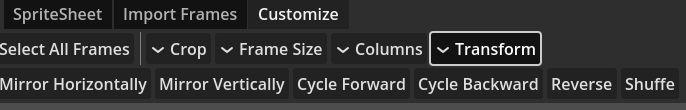
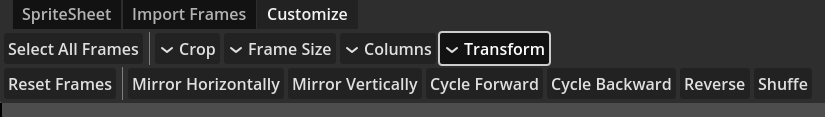
Improvements

diff --git a/README.md b/README.md
@@ -129,6 +129,8 @@ This tab allows you to set the number of columns in the spritesheet. For the mos
 
 This tab allows performing some operations that modify the whole spritesheet, and especially its frame order. The Mirror options will flip the frames around the spritesheet's global center, the Cycle options will shift all frames by 1 position. The Reverse will reverse the order of frames and Shuffle will randomize the order.
 
+The Reset Frames button will reset all frames to their original state, including order and missing frames.
+
 ### Edit
 
 The Edit panel can be access with the button at the bottom.
